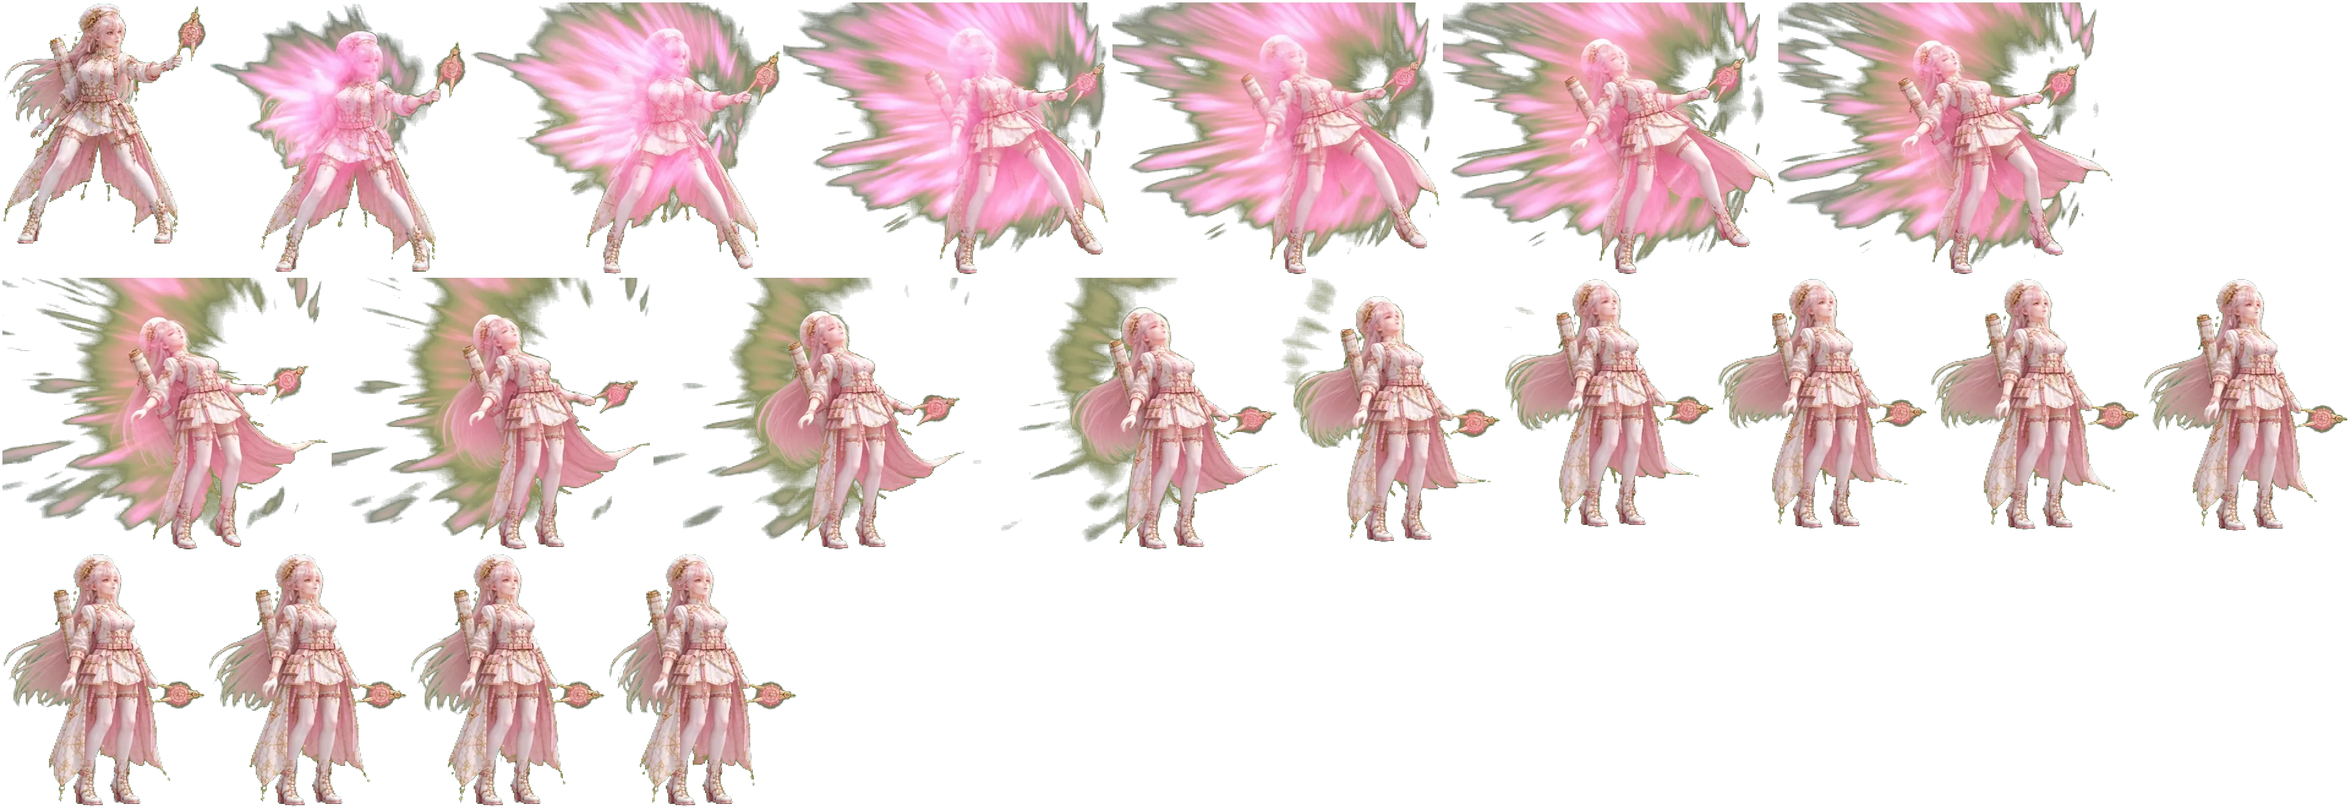
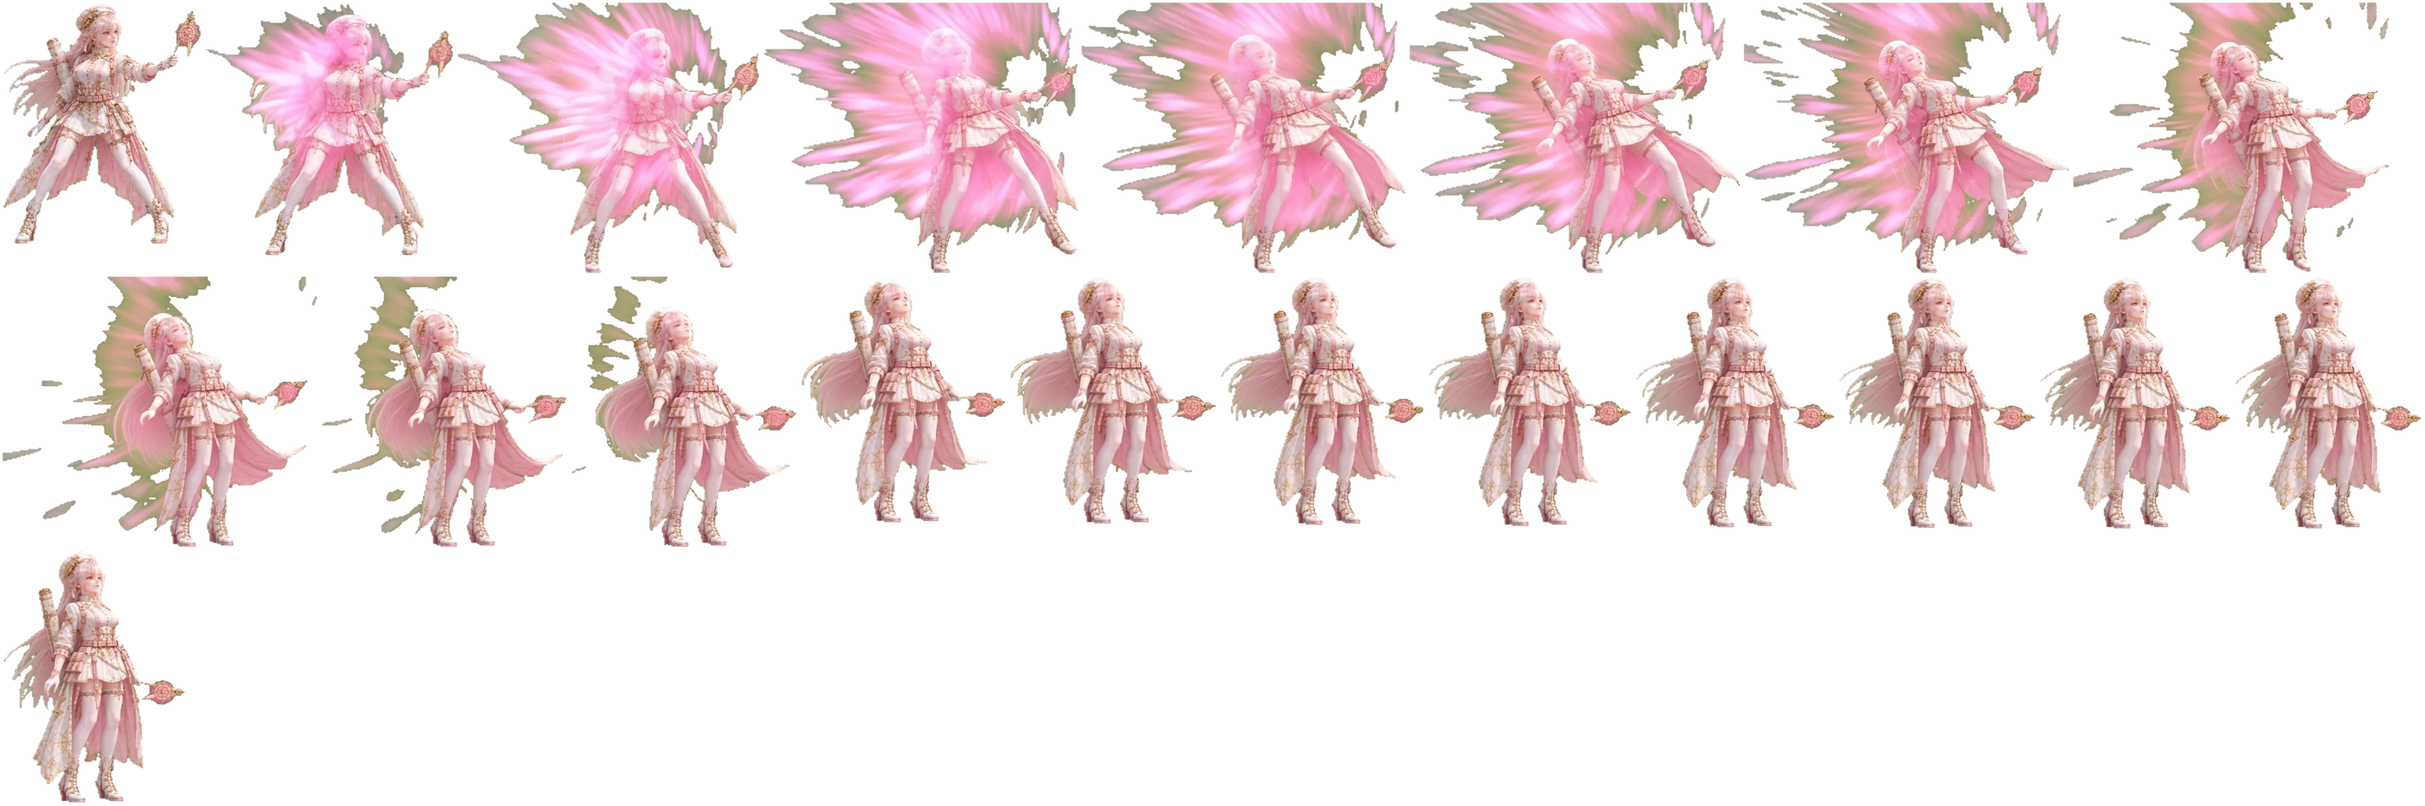
SAKURA tuning: cleaner key, 1.6x size, wider dragon swoop, joint dragon+SAKURA ULT, four-way title
- re-keyed all SAKURA/dragon sprites with a tighter matte (full despill, edge choke, speck removal)
- CHAR_SCALE 1.63 with larger hurtbox and attack reach; dragon rescaled to match
- EX swoop: hitbox widened to the whole dragon (4 hits)
- ULT: dragon hovers over her arm; her gold line and its breath converge into one beam
- title: SAKURA portrait panel and name added to opening/title text

Claude-Session: https://claude.ai/code/session_013VCJ8Uy1EUQeTExBLYYxtp

diff --git a/game.js b/game.js
@@ -56,7 +56,7 @@ const CHARS = {
   // ARCA-07 rides the four-legged MAGITEK ARSENAL: big, heavy, long reach, magic artillery
   arca: { id: 'arca', name: 'ARCA-07', role: '魔道兵器・重砲撃', c1: '#2ee6c8', c2: '#e0405a', rgb: '46,230,200', rgb2: '235,80,100', speed: 4.3, jump: -15.5, anchor: .55, h: 625, hurtW: 156, hurtH: 550, exName: 'ルーン・ミサイル', ultName: 'アーセナル・ノヴァ' },
   // SAKURA: sky-city aircraft engineer. Draws blueprints with her compass and summons the IDEA DRAGON (AOI-style summoner)
-  sakura: { id: 'sakura', name: 'SAKURA', role: '設計図・竜召喚', c1: '#ff9ec4', c2: '#e8c25a', rgb: '255,158,200', rgb2: '232,194,90', speed: 5.0, jump: -24.5, anchor: .55, exName: 'アイディア・ドラゴン', ultName: 'ドラフト・ノヴァ' }
+  sakura: { id: 'sakura', name: 'SAKURA', role: '設計図・竜召喚', c1: '#ff9ec4', c2: '#e8c25a', rgb: '255,158,200', rgb2: '232,194,90', speed: 5.0, jump: -24.5, anchor: .55, hurtW: 64, hurtH: 380, exName: 'アイディア・ドラゴン', ultName: 'ドラフト・ノヴァ' }
 };
 const ALT = {
   suzune: { c1: '#7fd8ff', c2: '#4f7bff', rgb: '130,215,255', rgb2: '90,120,255', test: (h, s, l) => (h > 33 && h < 64 && s > .3) || ((h < 12 || h > 340) && s > .55), shift: 175 },
@@ -84,7 +84,7 @@ async function buildAssets() {
 const ANIMS = {};
 const frameCount = (id, n) => ANIMS[id] && ANIMS[id].a[n] ? ANIMS[id].a[n].length : 0;
 // visual size balance between characters (SUZUNE's source video was framed larger)
-const CHAR_SCALE = { suzune: .92, aoi: 1.07, arca: 625 / 318, sakura: 1.02 };   // AOI stands taller; SUZUNE fights from a low crouch
+const CHAR_SCALE = { suzune: .92, aoi: 1.07, arca: 625 / 318, sakura: 1.63 };   // AOI stands taller; SUZUNE fights from a low crouch
 const LOAD = { done: 0, total: 0 };
 function track(p) { LOAD.total++; return p.then(v => { LOAD.done++; const el = document.getElementById('loadPct'); if (el) el.textContent = Math.round(LOAD.done / Math.max(1, LOAD.total) * 100) + '%'; return v; }); }
 // Atlases are NOT decoded at boot any more: only the fighters in the current match are kept in memory,
@@ -785,7 +785,9 @@ function updateArcaMove(f, o, m, t, k, act, at, dt, first) {
   } else if (k === 'ult') updateAoiUlt(f, o, at, dt, first);   // same beam logic, fired from the ARSENAL's railgun
 }
 // SAKURA: drafting-compass strikes, a thrown blueprint disc, and the IDEA DRAGON she draws into being
-function sakuraTip(f) { return { x: f.x + f.face * 120, y: f.y - 205 }; }
+function sakuraTip(f) { return { x: f.x + f.face * 190, y: f.y - 330 }; }
+// ULT: her blueprint beam and the dragon's breath converge here, then fire as one braided beam
+function sakuraFocus(f) { return { x: f.x + f.face * 540, y: f.y - 300 }; }
 function updateSakuraMove(f, o, m, t, k, act, at, dt, first) {
   const rgb = f.col.rgb, gold = f.col.rgb2, tip = sakuraTip(f);
   if (k === 'a') {
@@ -793,12 +795,12 @@ function updateSakuraMove(f, o, m, t, k, act, at, dt, first) {
     if (t < m.st) f.vx *= .75;
     if (first(0)) {
       f.vx = f.face * [4, 6, 9][c];
-      if (c === 1) fxArc(f.x + f.face * 80, f.y - 190, 95, -1.6, 1.1, rgb, f.face, 14, 26);
+      if (c === 1) fxArc(f.x + f.face * 130, f.y - 300, 150, -1.6, 1.1, rgb, f.face, 18, 34);
       else { fxRing(tip.x, tip.y, gold, 4, 46, 10, 4); fxCore(tip.x, tip.y, rgb, 40, 8); }
       if (c === 2) { spawnBolt(f, tip.x, tip.y, f.face * 24, 0, 5, 'bolt'); sfx.laser(); fxRing(tip.x + f.face * 30, tip.y, rgb, 6, 70, 12, 5, 2.4); }
       else sfx.swing();
     }
-    if (act) tryHit(f, o, box(f, 20, c === 1 ? 200 : 175, -250, -100), { dmg: [4, 4.5, 5][c], kb: [3, 4, 9][c], stun: [15, 16, 20][c], power: [.7, .8, 1.2][c], launch: c === 2 ? -8 : 0 });
+    if (act) tryHit(f, o, box(f, 30, c === 1 ? 320 : 280, -400, -150), { dmg: [4, 4.5, 5][c], kb: [3, 4, 9][c], stun: [15, 16, 20][c], power: [.7, .8, 1.2][c], launch: c === 2 ? -8 : 0 });
   } else if (k === 'b') {
     if (t < m.st) { f.vx *= .7; f.charge = t / m.st; if ((t | 0) % 2 === 0) fxSpark(tip.x, tip.y, gold, 2, .4); }
     if (first(0)) {   // blueprint compass-rose disc flung forward
@@ -808,11 +810,12 @@ function updateSakuraMove(f, o, m, t, k, act, at, dt, first) {
       sfx.heavySwing();
     }
   } else if (k === 'ex') {
-    if (t < m.st) { f.vx = 0; f.charge = t / m.st; if ((t | 0) % 2 === 0) fxSpark(f.x, f.y - 360, gold, 3, .5); if ((t | 0) % 6 === 0) fxRing(f.x - f.face * 40, f.y - 420, rgb, 20, 140, 14, 3, .3); }
+    if (t < m.st) { f.vx = 0; f.charge = t / m.st; if ((t | 0) % 2 === 0) fxSpark(f.x, f.y - 560, gold, 3, .5); if ((t | 0) % 6 === 0) fxRing(f.x - f.face * 60, f.y - 640, rgb, 20, 200, 16, 3, .3); }
     if (first(0)) { summonDragon(f, o, 'swoop'); f.charge = 0; }
   } else if (k === 'ult') {
     if (first(0)) summonDragon(f, o, 'ult');
-    updateAoiUlt(f, o, at, dt, first);   // same beam logic, breathed from the dragon's jaws
+    updateAoiUlt(f, o, at, dt, first);   // shared beam logic; the beam starts where her line and the dragon's breath meet
+    if (f.move && f.move.beam && (at | 0) % 3 === 0) { const c = sakuraFocus(f); fxRing(c.x, c.y, (at | 0) % 2 ? f.col.rgb2 : f.col.rgb, 20, 160, 12, 6, .5); }
   }
 }
 const DRAGON = { mx: 300, my: -24 };   // jaw position relative to the dragon's body centre in source sprite px (facing right)
@@ -820,9 +823,9 @@ const dragonScale = f => { const AN = ANIMS[f.id]; return AN ? AN.k * AN.dragonK
 function summonDragon(f, o, mode) {
   const back = -f.face;
   f.dragon = mode === 'swoop'
-    ? { mode, t: 0, face: f.face, x: f.x + back * 620, y: f.y - 560, x0: f.x + back * 620, x1: o.x + f.face * 900, hits: 0, next: 0 }
-    : { mode, t: 0, face: f.face, x: f.x + back * 900, y: f.y - 640, hits: 0, next: 0 };
-  fxRing(f.x, f.y - 420, f.col.rgb2, 30, 320, 24, 8, .3); fxCore(f.x, f.y - 420, f.col.rgb, 160, 16); flash(.35, f.col.rgb);
+    ? { mode, t: 0, face: f.face, x: f.x + back * 700, y: f.y - 700, x0: f.x + back * 700, x1: o.x + f.face * 1000, hits: 0, next: 0 }
+    : { mode, t: 0, face: f.face, x: f.x + back * 900, y: f.y - 900, hits: 0, next: 0 };
+  fxRing(f.x, f.y - 640, f.col.rgb2, 30, 320, 24, 8, .3); fxCore(f.x, f.y - 640, f.col.rgb, 200, 18); flash(.35, f.col.rgb);
   playS('special_start', .5, 1.3); shake(6);
 }
 function updateDragon(f, o, dt) {
@@ -831,18 +834,21 @@ function updateDragon(f, o, dt) {
   if (d.mode === 'swoop') {
     const L = 46, q = Math.min(1, d.t / L);
     const px = d.x, py = d.y;
-    d.x = lerp(d.x0, d.x1, q); d.y = f.y - 560 + Math.sin(q * Math.PI) * 420;   // arc dives through the opponent and climbs away
+    d.x = lerp(d.x0, d.x1, q); d.y = f.y - 700 + Math.sin(q * Math.PI) * 600;   // arc dives through the opponent and climbs away
     if (d.t > dt) d.rot = lerp(d.rot || 0, Math.atan2(d.y - py, Math.abs(d.x - px) + .01), .35);
-    if (q < .85 && d.hits < 3 && d.t >= d.next && G.phase === 'fight') {
-      const hb = { x0: d.x - 180, x1: d.x + 180, y0: d.y - 140, y1: d.y + 150 };
-      if (overlap(hb, hurt(o))) { d.hits++; d.next = d.t + 8; hitTarget(f, o, { dmg: d.hits === 3 ? 7 : 4.5, kb: d.hits === 3 ? 14 : 4, stun: 22, power: d.hits === 3 ? 1.8 : 1.1, launch: d.hits === 3 ? -12 : 0, hy: o.y - d.y }); fxArc(d.x, d.y + 40, 150, -1.8, 1.4, f.col.rgb, d.face, 16, 30); }
+    if (q < .9 && d.hits < 4 && d.t >= d.next && G.phase === 'fight') {   // wide body + wing + claw hitbox
+      const hb = { x0: d.x - 340, x1: d.x + 340, y0: d.y - 300, y1: d.y + 300 };
+      if (overlap(hb, hurt(o))) { d.hits++; d.next = d.t + 7; const fin = d.hits === 4; hitTarget(f, o, { dmg: fin ? 7 : 4, kb: fin ? 14 : 4, stun: 22, power: fin ? 1.9 : 1.1, launch: fin ? -13 : 0, hy: clamp(o.y - d.y, 60, 260) }); fxArc(d.x, d.y + 40, 220, -1.8, 1.4, f.col.rgb, d.face, 18, 34); }
     }
     if ((d.t | 0) % 2 === 0) addFx({ k: 'streak', x: d.x - d.face * 160, y: d.y + rnd(-60, 60), vx: -d.face * 14, vy: 0, life: 14, t: 0, rgb: f.col.rgb, w: 4 });
     if (d.t > L + 10) f.dragon = null;
   } else if (d.mode === 'ult') {
-    const tx = f.x - f.face * 140, ty = f.y - 190;   // hovers low behind her so the breath runs at body height
+    const tx = f.x + f.face * 170, ty = f.y - 430;   // hovers over her outstretched arm, both facing the foe
     d.x = lerp(d.x, tx, .14); d.y = lerp(d.y, ty + Math.sin(d.t * .08) * 14, .14); d.face = f.face;
-    f.droneX = d.x + d.face * DRAGON.mx * dragonScale(f); f.droneY = d.y + DRAGON.my * dragonScale(f);
+    d.rot = lerp(d.rot || 0, f.move && f.move.beam ? .32 : .12, .1);   // dips its head to breathe down onto the focus point
+    const c = sakuraFocus(f); f.droneX = c.x; f.droneY = c.y;
+    { const K = dragonScale(f), cs = Math.cos(d.rot), sn = Math.sin(d.rot), mx = DRAGON.mx * K, my = DRAGON.my * K;   // jaw position after the head dip
+      d.mouthX = d.x + d.face * (mx * cs - my * sn); d.mouthY = d.y + (mx * sn + my * cs); }
     if (!(f.state === 'atk' && f.move && f.move.key === 'ult')) { d.mode = 'leave'; d.t = 0; }
   } else if (d.mode === 'leave' || d.mode === 'win') {
     if (d.mode === 'leave') { d.x -= d.face * 22 * dt; d.y -= 9 * dt; if (d.t > 50) f.dragon = null; }
@@ -858,7 +864,7 @@ function dragonFrame(f) {
 }
 function drawDragon(f, front) {
   const d = f.dragon; if (!d || f.hidden) return;
-  if ((d.mode === 'swoop') !== front) return;
+  if ((d.mode === 'swoop' || d.mode === 'ult') !== front) return;
   const fr = dragonFrame(f), AN = ANIMS[f.id];
   ctx.save(); ctx.translate(d.x, d.y); ctx.scale(d.face, 1); if (d.rot) ctx.rotate(d.rot);
   if (d.mode === 'leave') ctx.globalAlpha = Math.max(0, 1 - d.t / 50);
@@ -905,7 +911,7 @@ function updateAoiUlt(f, o, at, dt, first) {
   if (first(45)) { sfx.beam(); flash(.9, f.col.rgb); shake(18); quake(20, .7, 120); zoomKick(.08); m.beam = true; G.speedlines = 40; f.charge = 1; }
   if (at >= 45 && at < 105) {
     shake(9); G.tintA = .35; if (((at | 0) % 5) === 0) quake(7, .25);
-    const b = { x0: f.face > 0 ? dx : -500, x1: f.face > 0 ? STAGE_W + 500 : dx, y0: dy - 70, y1: dy + 70 };
+    const bx = f.id === 'sakura' ? f.x : dx, b = { x0: f.face > 0 ? bx : -500, x1: f.face > 0 ? STAGE_W + 500 : bx, y0: dy - 70, y1: dy + 70 };   // SAKURA's feeds sweep the space in front of her too
     const hb = hurt(o);
     if (m.nextHit === undefined) m.nextHit = 45;
     if (at >= m.nextHit && overlap(b, hb)) {
@@ -1607,6 +1613,7 @@ function drawDrone(f) {
   const img = f.alt ? GFX.droneAltLazy() : GFX.drone, x = f.droneX, y = f.droneY, s = 92;
   ctx.save(); ctx.globalCompositeOperation = 'lighter';
   if (arca) drawMagicCircle(x + f.face * 60, y, f, f.charge);
+  if (f.id === 'sakura' && f.dragon && f.dragon.mouthX !== undefined) drawSakuraFeeds(f, x, y);
   const r = 80 + 60 * f.charge, g = ctx.createRadialGradient(x, y, 0, x, y, r); g.addColorStop(0, `rgba(${f.col.rgb},${.55 + f.charge * .4})`); g.addColorStop(1, `rgba(${f.col.rgb},0)`);
   ctx.fillStyle = g; ctx.beginPath(); ctx.arc(x, y, r, 0, TAU); ctx.fill();
   ctx.strokeStyle = `rgba(${f.col.rgb},.7)`; ctx.lineWidth = 2;
@@ -1624,6 +1631,23 @@ function drawDrone(f) {
   }
   ctx.restore();
   if (!arca) { ctx.save(); ctx.translate(x, y); ctx.rotate(Math.sin(f.droneA) * .1); ctx.drawImage(img, -s / 2, -s / 2, s, s); ctx.restore(); }
+}
+// ULT feeds: SAKURA's blueprint line and the dragon's breath both pour into the focus point
+function drawSakuraFeeds(f, cx, cy) {
+  const d = f.dragon, tip = sakuraTip(f), beam = f.move && f.move.beam, c = f.charge, w0 = beam ? 1 : c * .35;
+  if (w0 <= .02) return;
+  const feed = (x0, y0, wA, rgb) => {
+    const a = Math.atan2(cy - y0, cx - x0), nx = -Math.sin(a), ny = Math.cos(a), wob = beam ? Math.sin(G.frame * 1.1 + x0) * 4 : 0;
+    for (let pass = 0; pass < 2; pass++) {
+      const wa = (pass ? wA * .3 : wA) * w0 + wob, wb = (pass ? 22 : 64) * w0;
+      ctx.beginPath(); ctx.moveTo(x0 + nx * wa, y0 + ny * wa); ctx.lineTo(cx + nx * wb, cy + ny * wb); ctx.lineTo(cx - nx * wb, cy - ny * wb); ctx.lineTo(x0 - nx * wa, y0 - ny * wa); ctx.closePath();
+      ctx.fillStyle = pass ? `rgba(255,255,255,${beam ? .95 : .6})` : `rgba(${rgb},${beam ? .8 : .45})`; ctx.fill();
+    }
+  };
+  feed(d.mouthX, d.mouthY, 46, f.col.rgb);      // dragon's breath, angled down from above
+  feed(tip.x, tip.y, 22, f.col.rgb2);           // her compass line, gold
+  const g = ctx.createRadialGradient(cx, cy, 0, cx, cy, 150 * w0); g.addColorStop(0, 'rgba(255,255,255,1)'); g.addColorStop(.4, `rgba(${f.col.rgb},.8)`); g.addColorStop(1, `rgba(${f.col.rgb},0)`);
+  ctx.fillStyle = g; ctx.beginPath(); ctx.arc(cx, cy, 150 * w0, 0, TAU); ctx.fill();
 }
 // rune magic circle seen side-on in front of the railgun (three counter-rotating rings)
 function drawMagicCircle(x, y, f, c) {

diff --git a/index.html b/index.html
@@ -8,7 +8,7 @@
 <meta name="apple-mobile-web-app-capable" content="yes">
 <meta name="apple-mobile-web-app-status-bar-style" content="black-translucent">
 <meta name="theme-color" content="#1c1433">
-<title>CHRONO FIGHT — SUZUNE × AOI</title>
+<title>CHRONO FIGHT — SUZUNE × AOI × ARCA-07 × SAKURA</title>
 <link rel="preconnect" href="https://fonts.googleapis.com"><link rel="preconnect" href="https://fonts.gstatic.com" crossorigin>
 <link href="https://fonts.googleapis.com/css2?family=Chakra+Petch:wght@500;600;700&family=Shippori+Mincho+B1:wght@600;800&display=swap" rel="stylesheet">
 <style>
@@ -33,19 +33,21 @@ button:focus-visible{outline:3px solid var(--gold);outline-offset:3px}
 #title{align-items:flex-end;justify-content:space-between;gap:24px}
 .trio{position:absolute;inset:0;overflow:hidden;pointer-events:none;background:#140d26}
 .trio img{position:absolute;top:0;height:100%;object-fit:cover;filter:saturate(1.1) contrast(1.04)}
-.trio .p1{left:0;width:44%;clip-path:polygon(0 0,100% 0,78% 100%,0 100%);object-position:50% 22%}
-.trio .p2{left:29%;width:43%;clip-path:polygon(22% 0,100% 0,78% 100%,0 100%);object-position:50% 22%}
-.trio .p3{right:0;width:44%;clip-path:polygon(22% 0,100% 0,100% 100%,0 100%);object-position:50% 12%}
+.trio .p1{left:0;width:30%;clip-path:polygon(0 0,100% 0,78% 100%,0 100%);object-position:50% 22%}
+.trio .p2{left:23.4%;width:30%;clip-path:polygon(22% 0,100% 0,78% 100%,0 100%);object-position:50% 22%}
+.trio .p4{left:46.7%;width:30%;clip-path:polygon(22% 0,100% 0,78% 100%,0 100%);object-position:50% 20%}
+.trio .p3{right:0;width:30%;clip-path:polygon(22% 0,100% 0,100% 100%,0 100%);object-position:50% 12%}
 .trio .sm{position:absolute;top:-10%;width:5px;height:120%;transform:rotate(11.5deg)}
-.trio .s1{left:37.5%;background:linear-gradient(var(--gold),#fff,var(--cyan));box-shadow:0 0 26px 6px rgba(255,210,150,.55)}
-.trio .s2{left:62.5%;background:linear-gradient(var(--cyan),#fff,#2ee6c8);box-shadow:0 0 26px 6px rgba(120,230,220,.5)}
+.trio .s1{left:26.6%;background:linear-gradient(var(--gold),#fff,var(--cyan));box-shadow:0 0 26px 6px rgba(255,210,150,.55)}
+.trio .s2{left:50%;background:linear-gradient(var(--cyan),#fff,#2ee6c8);box-shadow:0 0 26px 6px rgba(120,230,220,.5)}
+.trio .s3{left:73.4%;background:linear-gradient(#ff9ec4,#fff,#e8c25a);box-shadow:0 0 26px 6px rgba(255,170,210,.5)}
 .trio .shade{position:absolute;inset:0;background:linear-gradient(180deg,rgba(20,13,38,0) 0%,rgba(20,13,38,0) 46%,rgba(20,13,38,.72) 68%,rgba(20,13,38,.95) 100%),
   radial-gradient(120% 60% at 50% 0%,rgba(0,0,0,0) 60%,rgba(10,6,20,.35) 100%)}
 @media (orientation: portrait){
   #title{flex-direction:column;align-items:stretch;justify-content:flex-end;gap:14px}
-  .trio .p1,.trio .p2,.trio .p3{height:62%}
-  .trio .p1{width:52%;object-position:50% 18%} .trio .p2{left:24%;width:52%} .trio .p3{width:52%}
-  .trio .s1{left:37%;height:70%} .trio .s2{left:63%;height:70%}
+  .trio .p1,.trio .p2,.trio .p3,.trio .p4{height:62%}
+  .trio .p1{object-position:50% 18%}
+  .trio .s1,.trio .s2,.trio .s3{height:70%}
   .trio .shade{background:linear-gradient(180deg,rgba(20,13,38,0) 0%,rgba(20,13,38,0) 42%,rgba(20,13,38,.9) 60%,#140d26 70%)}
   .brand{max-width:100%}
   .menu{min-width:0;width:100%}
@@ -298,17 +300,17 @@ body.portrait:not(.rotate-dismissed) #rotate{display:flex}
   <div class="op-logo" aria-hidden="true">
     <span class="op-kicker">SZOU ORIGINAL</span>
     <h1><span>CHRONO</span><span>FIGHT</span></h1>
-    <p>SUZUNE <i>×</i> AOI <i>×</i> ARCA-07</p>
+    <p>SUZUNE <i>×</i> AOI <i>×</i> ARCA-07 <i>×</i> SAKURA</p>
   </div>
   <button class="op-start" id="opStart"><b>タップしてスタート</b><small>音が出ます</small></button>
   <button class="op-skip" id="opSkip" hidden>スキップ ▶▶</button>
 </section>
 
 <section class="screen" id="title" aria-label="タイトル">
-  <div class="trio"><img class="p1" data-src="tsu" alt=""><img class="p2" data-src="tao" alt=""><img class="p3" data-src="tar" alt=""><i class="sm s1"></i><i class="sm s2"></i><div class="shade"></div></div>
+  <div class="trio"><img class="p1" data-src="tsu" alt=""><img class="p2" data-src="tao" alt=""><img class="p4" data-src="tar" alt=""><img class="p3" data-src="tsa" alt=""><i class="sm s1"></i><i class="sm s2"></i><i class="sm s3"></i><div class="shade"></div></div>
   <div class="brand">
     <h1>CHRONO<br>FIGHT</h1>
-    <p>SUZUNE・AOI・ARCA-07、2029年の東京スカイデッキで。<br>攻撃と必殺、2つのボタンで戦う2ラウンド先取バトル。</p>
+    <p>SUZUNE・AOI・ARCA-07・SAKURA、2029年の東京スカイデッキで。<br>攻撃と必殺、2つのボタンで戦う2ラウンド先取バトル。</p>
     <div class="keys">ボタンは「攻撃」と「必殺」だけ。攻撃連打で自動コンボ、必殺はゲージで 強攻撃→EX→ULT に変化。<br>1P：A D 移動 / W ジャンプ / J 攻撃 / K 必殺　2P：矢印キー / , 攻撃 / . 必殺　相手と反対に押すとガード<br>SUZUNE・ARCA-07：ダッシュ（1P I・2P / ・左右2回押しでもOK）　2人1組のチーム戦：交代 1P U・2P '　ULTは体力50%以下で解放</div>
   </div>
   <nav class="menu" aria-label="モード選択">
@@ -394,7 +396,7 @@ body.portrait:not(.rotate-dismissed) #rotate{display:flex}
 <div id="matchLoad" hidden>出撃準備中… <span id="matchPct">0%</span></div>
 <div id="loading">読み込み中… <span id="loadPct">0%</span></div>
 
-<script>window.ASSETS={"su": "assets/suzune.webp", "ao": "assets/aoi.webp", "drone": "assets/drone.webp", "suci": "assets/suzune_cutin.webp", "aoci": "assets/aoi_cutin.webp", "ar": "assets/arca.webp", "arci": "assets/arca_cutin.webp", "arp": "assets/arca_pilot.webp", "arcard": "assets/arca_card.webp", "tsu": "assets/title_suzune.webp", "tao": "assets/title_aoi.webp", "tar": "assets/title_arca.webp", "sa": "assets/sakura.webp", "saci": "assets/sakura_cutin.webp", "sacard": "assets/sakura_card.webp"};</script>
-<script src="game.js?v=20261002c"></script>
+<script>window.ASSETS={"su": "assets/suzune.webp", "ao": "assets/aoi.webp", "drone": "assets/drone.webp", "suci": "assets/suzune_cutin.webp", "aoci": "assets/aoi_cutin.webp", "ar": "assets/arca.webp", "arci": "assets/arca_cutin.webp", "arp": "assets/arca_pilot.webp", "arcard": "assets/arca_card.webp", "tsu": "assets/title_suzune.webp", "tao": "assets/title_aoi.webp", "tar": "assets/title_arca.webp", "tsa": "assets/title_sakura.webp", "sa": "assets/sakura.webp", "saci": "assets/sakura_cutin.webp", "sacard": "assets/sakura_card.webp"};</script>
+<script src="game.js?v=20261002d"></script>
 </body>
 </html>

diff --git a/tools/sprite_tool.py b/tools/sprite_tool.py
@@ -22,19 +22,35 @@ def frames(video, t0, t1, fps):
 
 
 def key(img):
+    """Hard green-screen key: tight threshold, full despill, 1px edge choke, speck removal."""
+    from scipy import ndimage
     a = np.asarray(img).astype(np.float32)
     r, g, b = a[..., 0], a[..., 1], a[..., 2]
-    # greenness: how much green dominates the other channels
-    gd = g - np.maximum(r, b)
-    alpha = np.clip(1.0 - (gd - 25.0) / 45.0, 0, 1)          # gd<=25 opaque, gd>=70 transparent
-    # despill: clamp green to max(r,b) where it dominates
-    spill = np.maximum(r, b)
-    g2 = np.where(g > spill, spill + (g - spill) * 0.15, g)
+    mx = np.maximum(r, b)
+    gd = g - mx                                   # how much green dominates
+    alpha = np.clip(1.0 - (gd - 6.0) / 20.0, 0, 1)   # gd<=6 opaque, gd>=26 gone
+    # hue-based catch for darker / desaturated green screen pixels
+    sat = (np.maximum(g, mx) - np.minimum(np.minimum(r, g), b)) / (np.maximum(g, mx) + 1e-3)
+    greenish = (g > r * 1.12) & (g > b * 1.12) & (sat > .22)
+    alpha = np.where(greenish, np.minimum(alpha, np.clip(1.0 - (gd + 4) / 18.0, 0, 1)), alpha)
+    # choke the matte 1px (removes the green halo) and drop isolated specks
+    solid = alpha > .5
+    solid = ndimage.binary_opening(solid, iterations=1)
+    lab, n = ndimage.label(solid)
+    if n > 1:
+        sizes = ndimage.sum(solid, lab, range(1, n + 1))
+        keep = np.isin(lab, 1 + np.where(sizes >= 60)[0])
+        solid = keep
+    core = ndimage.binary_erosion(solid, iterations=1)
+    alpha = np.where(core, 1.0, np.where(solid, np.minimum(alpha, .55), 0.0))
+    alpha = ndimage.gaussian_filter(alpha, .6) * (ndimage.binary_dilation(solid, iterations=1))
+    # full despill: green never exceeds max(r, b); edge pixels pulled further toward neutral
+    g2 = np.minimum(g, mx)
+    edge = (alpha < .95) & (alpha > 0)
+    g2 = np.where(edge, np.minimum(g2, (r + b) / 2 + 4), g2)
     out = np.dstack([r, g2, b, alpha * 255]).clip(0, 255).astype(np.uint8)
-    im = Image.fromarray(out, 'RGBA')
-    # drop tiny specks: zero alpha below 0.1
-    arr = np.asarray(im).copy(); arr[..., 3][arr[..., 3] < 26] = 0
-    return Image.fromarray(arr, 'RGBA')
+    out[..., 3][out[..., 3] < 20] = 0
+    return Image.fromarray(out, 'RGBA')
 
 
 def bbox(im):
